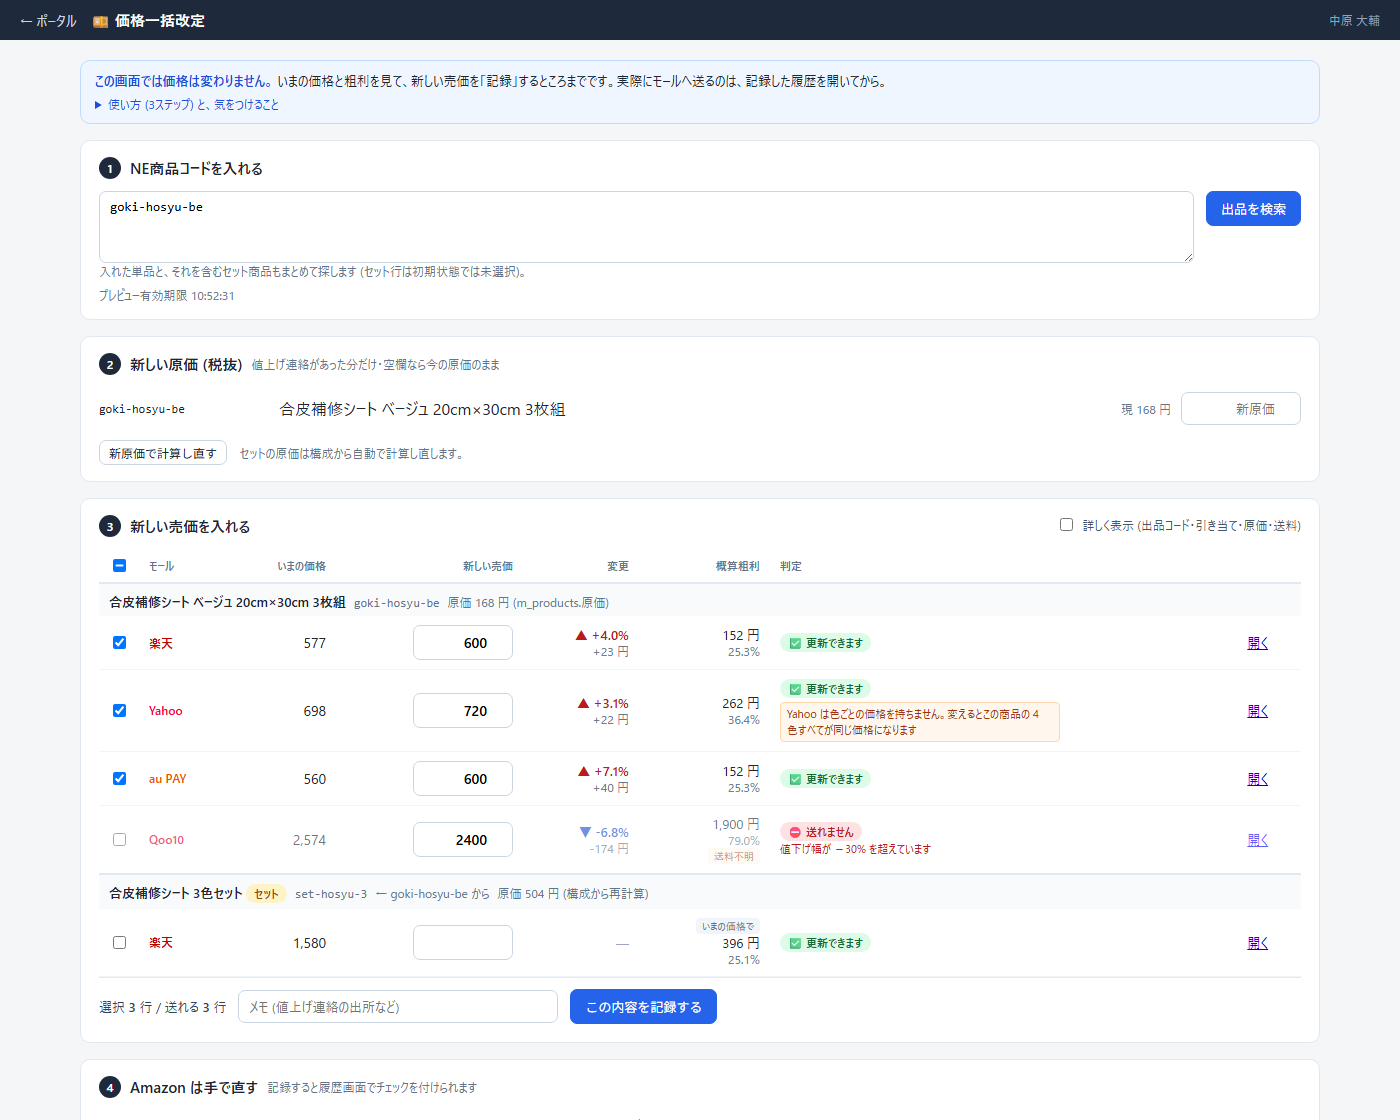
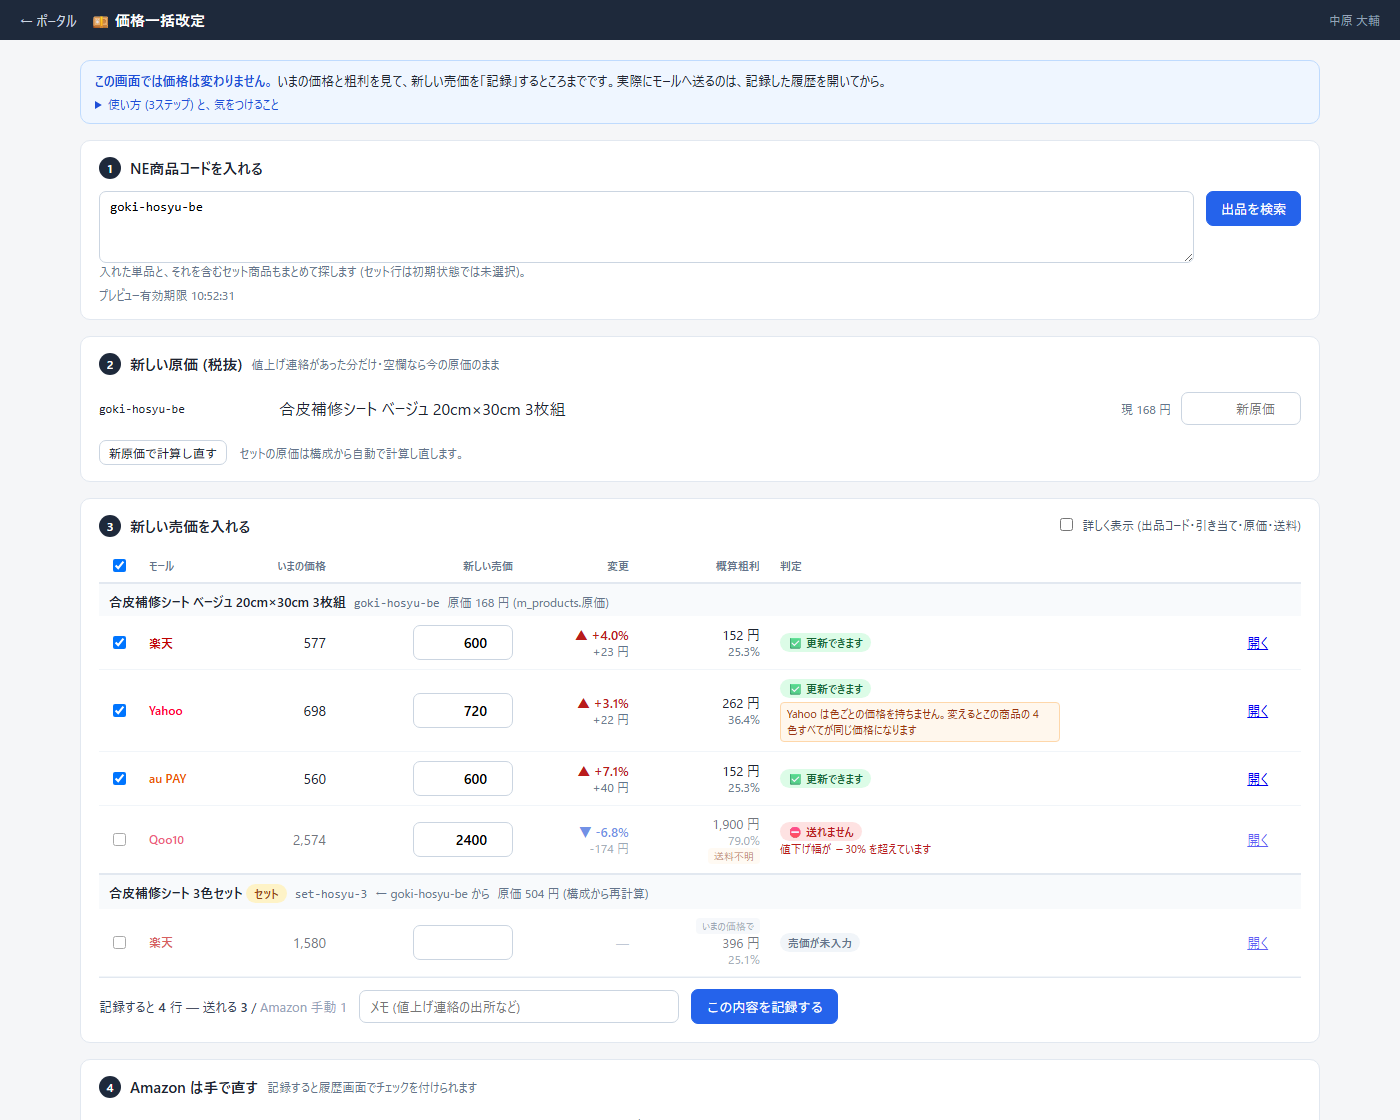
price-update: Codex R1 の指摘を直す (再検索の競合・全選択の範囲・NUL・集計の定義)
- ★run.ejs に実 NUL 文字が入っていて Git がバイナリ扱いしていた (差分が読めない)。
  グループキーを JSON.stringify に変える
- 再検索と進行中プレビューの競合 (Codex High): doResolve の頭で入力を止め、
  世代番号を進め、previewId を落とす。送信キューには「どのプレビューへの入力か」を
  持たせ、別のプレビューになっていたら捨てる。「新原価で計算し直す」も二度押しを止める
- 「すべて選ぶ」は送れる単品だけを選ぶ。★セット行が初期状態で未選択なのは安全のためで、
  1操作で外してよいものではない。⛔ の行も選ばない (外すときは全部外す)
- 記録ボタン横の集計を記録API と同じ定義にする (選択行 + Amazon の手動行)。
  「送れる 3 行」とだけ出していたので、実際に記録される行数と食い違っていた
- 売価が未入力なだけの行を ⛔ にしない (灰色の「売価が未入力」)。
  検索直後は全行がこれになるので、赤にすると本当に止まっている行が埋もれる
- 選択・売価・原価の入力と確認欄に読み上げ用のラベルを付ける

Changed region(s): [[0.3993, 0.875, 0.6143, 0.9375], [0.0614, 0.875, 0.3686, 0.9062], [0.5221, 0.8125, 0.6143, 0.8438]]

diff --git a/docs/runbooks/price-update-manual.md b/docs/runbooks/price-update-manual.md
@@ -53,16 +53,20 @@
 | 新しい売価 | ここに入れる。入れるたびに右の3列が計算し直される |
 | 変更 | ▲ = 値上げ / ▼ = 値下げ。率と金額 |
 | 概算粗利 | 新売価での粗利。**売価が空の間は「いまの価格で」** の粗利 (札が付く) |
-| 判定 | ✅ 更新できます / ⚠ 注意 / ⛔ 送れません |
+| 判定 | ✅ 更新できます / ⚠ 注意 / ⛔ 送れません / 売価が未入力 (灰色 = まだ入れていないだけ) |
 
 - **⛔ が付いた行は、記録しても送られない**。0円・小数・−30%超の値下げ・+10万円超の値上げ・原価割れなど
 - **⚠ の注意書きはそのまま読むこと**。例: 「Yahoo は色ごとの価格を持ちません」= 1色のつもりでも**全色が同じ価格になる**
 - **送料不明** の札が付いた粗利は当てになりません (商品マスタの送料で計算している)
 - 右上の **詳しく表示** で、出品コード・引き当ての確からしさ・原価・送料の内訳が出る (粗利が合わないときはここ)
+- いちばん左上のチェックボックスは **「送れる単品の行をすべて選ぶ」**。**セットの行と ⛔ の行は選ばれない**
+  (外すときは全部外れる)
 
 ![詳しく表示](images/price-update/02-detail.png)
 
-左下に **選択 N 行 / 送れる N 行** が出る。ここを見てから「この内容を記録する」。
+左下に **「記録すると N 行 — 送れる X / ⛔ Y / 売価が未入力 Z / Amazon 手動 W」** が出る。
+記録API と同じ数え方なので、この N がそのまま履歴の行数になる (**Amazon の行は選ばなくても足される**)。
+ここを見てから「この内容を記録する」。
 メモには**値上げ連絡の出所**を書いておくと、あとで履歴を見たときに分かる。
 
 ---
